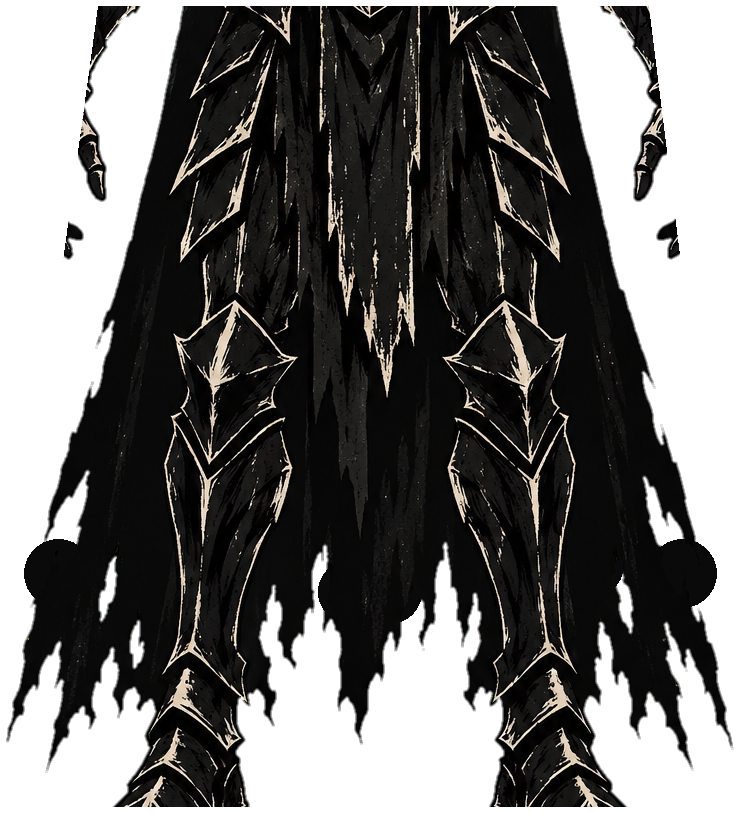
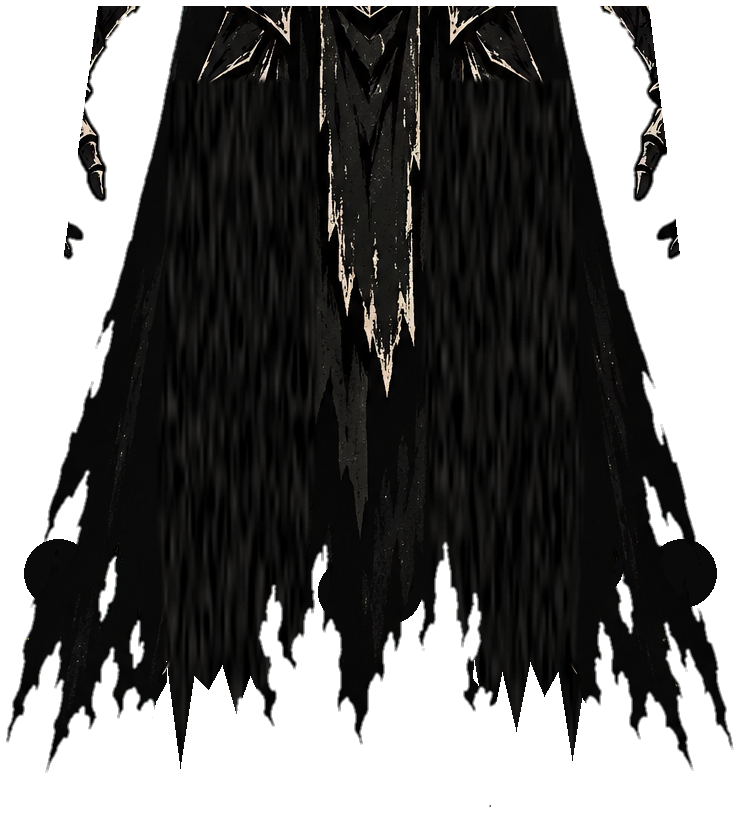
Paint the master's legs out of the drawn cape so the rig shows two legs, not four

Changed region(s): [[0.1554, 0.0923, 0.4351, 1.0], [0.5595, 0.0923, 0.8392, 1.0], [0.4041, 0.4613, 0.4351, 0.492]]

diff --git a/vorathul-nerfed/tools/rig/cut_drawn.py b/vorathul-nerfed/tools/rig/cut_drawn.py
@@ -160,8 +160,37 @@ pivot_src = {}  # slot -> pivot in source coordinates (its own sheet frame, afte
 MSZ = M_IMG.size
 
 
-def m_part(slot, part, axis_to=None):
-    cut = from_sheet(M_IMG, poly_mask(MSZ, S.POLY[part]), S.PIVOT[part], axis_to)
+def strip_legs(img):
+    """The master paints both legs in front of the cape lining; cut into cape_lower they doubled the rig's own leg cards
+    (four legs whenever a leg rotated or the cape swung). Paint the legs out with lining and open the hem below the knees."""
+    arr = np.asarray(img).astype(float)
+    legs = Image.new("L", img.size, 0)
+    d = ImageDraw.Draw(legs)
+    d.polygon(S.POLY["leg"], fill=255)
+    d.polygon([(2 * S.ROOT_X - x, y) for x, y in S.POLY["leg"]], fill=255)
+    hard = np.asarray(legs.filter(ImageFilter.MaxFilter(13))) > 0
+    soft = np.asarray(Image.fromarray((hard * 255).astype(np.uint8)).filter(ImageFilter.GaussianBlur(2))).astype(float)[..., None] / 255
+    # lining tone and grain from the strip between the shins (below the tabard, above the hem)
+    ref = arr[1050:1250, 460:565]
+    ref = ref[ref[..., 3] > 250][:, :3]
+    mean, std = ref.mean(0), ref.std(0)
+    rng = np.random.default_rng(7)
+    h, w = arr.shape[:2]
+    grain = np.asarray(Image.fromarray(rng.normal(128, 40, (h, w)).clip(0, 255).astype(np.uint8)).resize((w // 3, h // 24)).resize((w, h), Image.BICUBIC)).astype(float)
+    grain = (grain - grain.mean()) / grain.std()
+    lining = np.clip(mean + grain[..., None] * std, 0, 255)
+    rgb = arr[..., :3] * (1 - soft) + lining * soft
+    # ragged hem: the legs' place opens below a tattered line at the lining's own hem height
+    kx = np.arange(0, w + 14, 14)
+    ky = np.where(np.arange(len(kx)) % 2, 1300 + 110 * rng.random(len(kx)), 1270 + 20 * rng.random(len(kx)))  # odd = tip
+    hem = np.interp(np.arange(w), kx, ky)
+    below = np.arange(h)[:, None] > hem[None, :]
+    alpha = np.where(hard & below, 0, arr[..., 3])
+    return Image.fromarray(np.dstack([rgb, alpha]).astype(np.uint8))
+
+
+def m_part(slot, part, axis_to=None, src=None):
+    cut = from_sheet(src or M_IMG, poly_mask(MSZ, S.POLY[part]), S.PIVOT[part], axis_to)
     slots[slot] = cut
     pivot_src[slot] = S.PIVOT[part]
     return cut
@@ -176,7 +205,7 @@ m_part("upper_arm", "upper_arm", axis_to=(237, 590))
 m_part("forearm", "forearm", axis_to=(205, 722))
 m_part("hand_open", "hand_open", axis_to=(200, 830))
 m_part("cape_upper", "cape_upper")
-m_part("cape_lower", "cape_lower")
+m_part("cape_lower", "cape_lower", src=strip_legs(M_IMG))
 head = m_part("helm_closed", "head")
 crown = m_part("crown_full", "crown")
 
